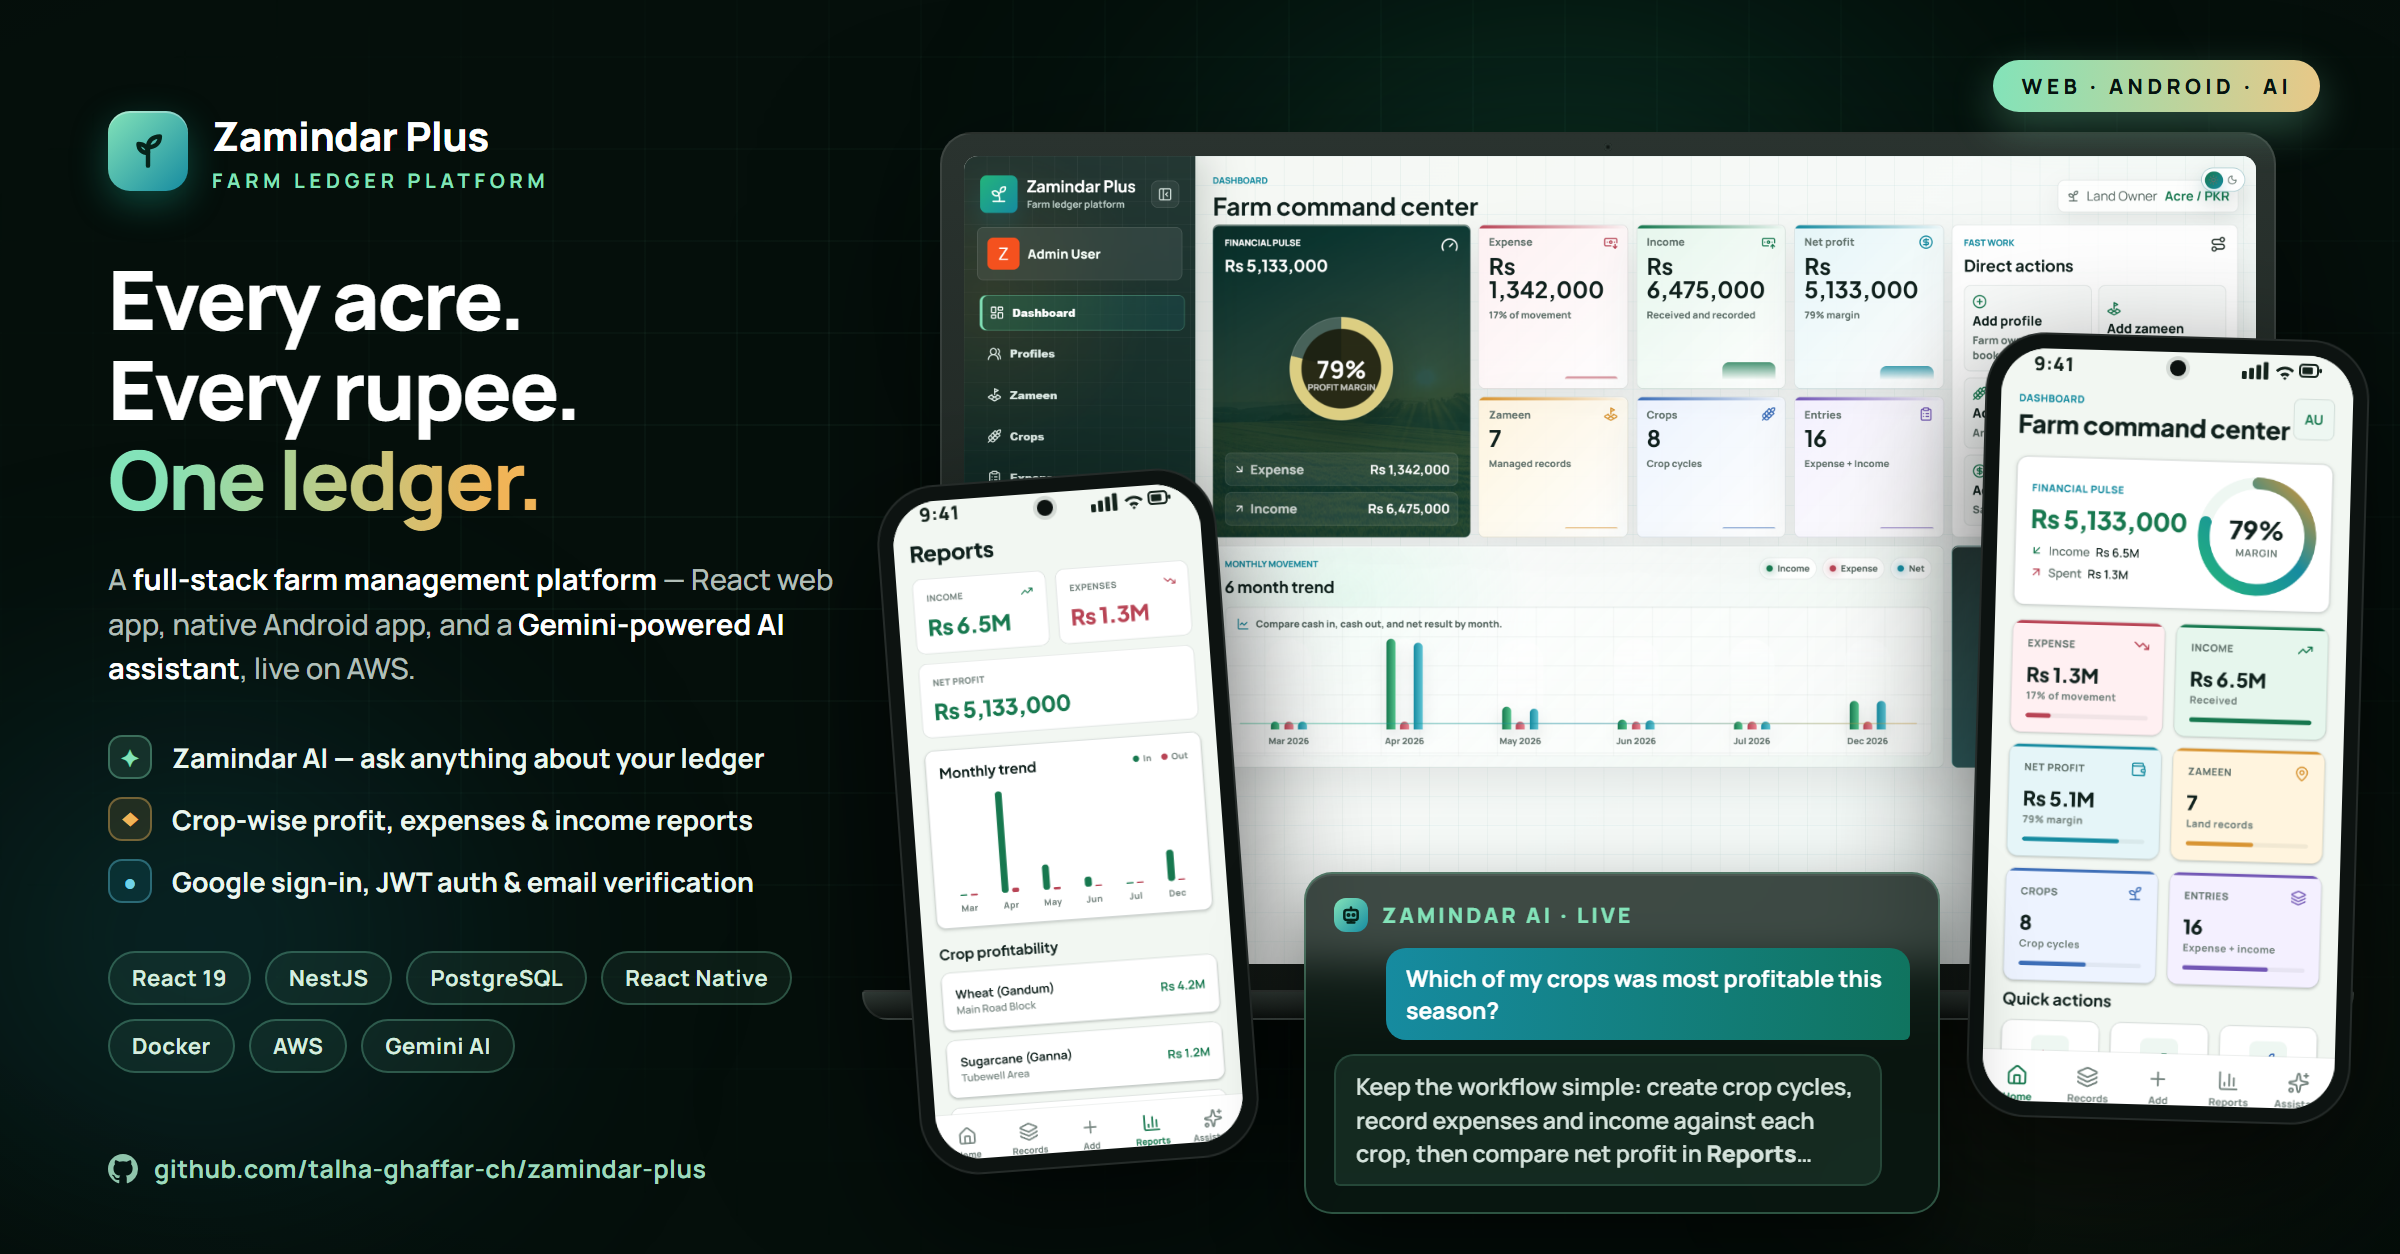
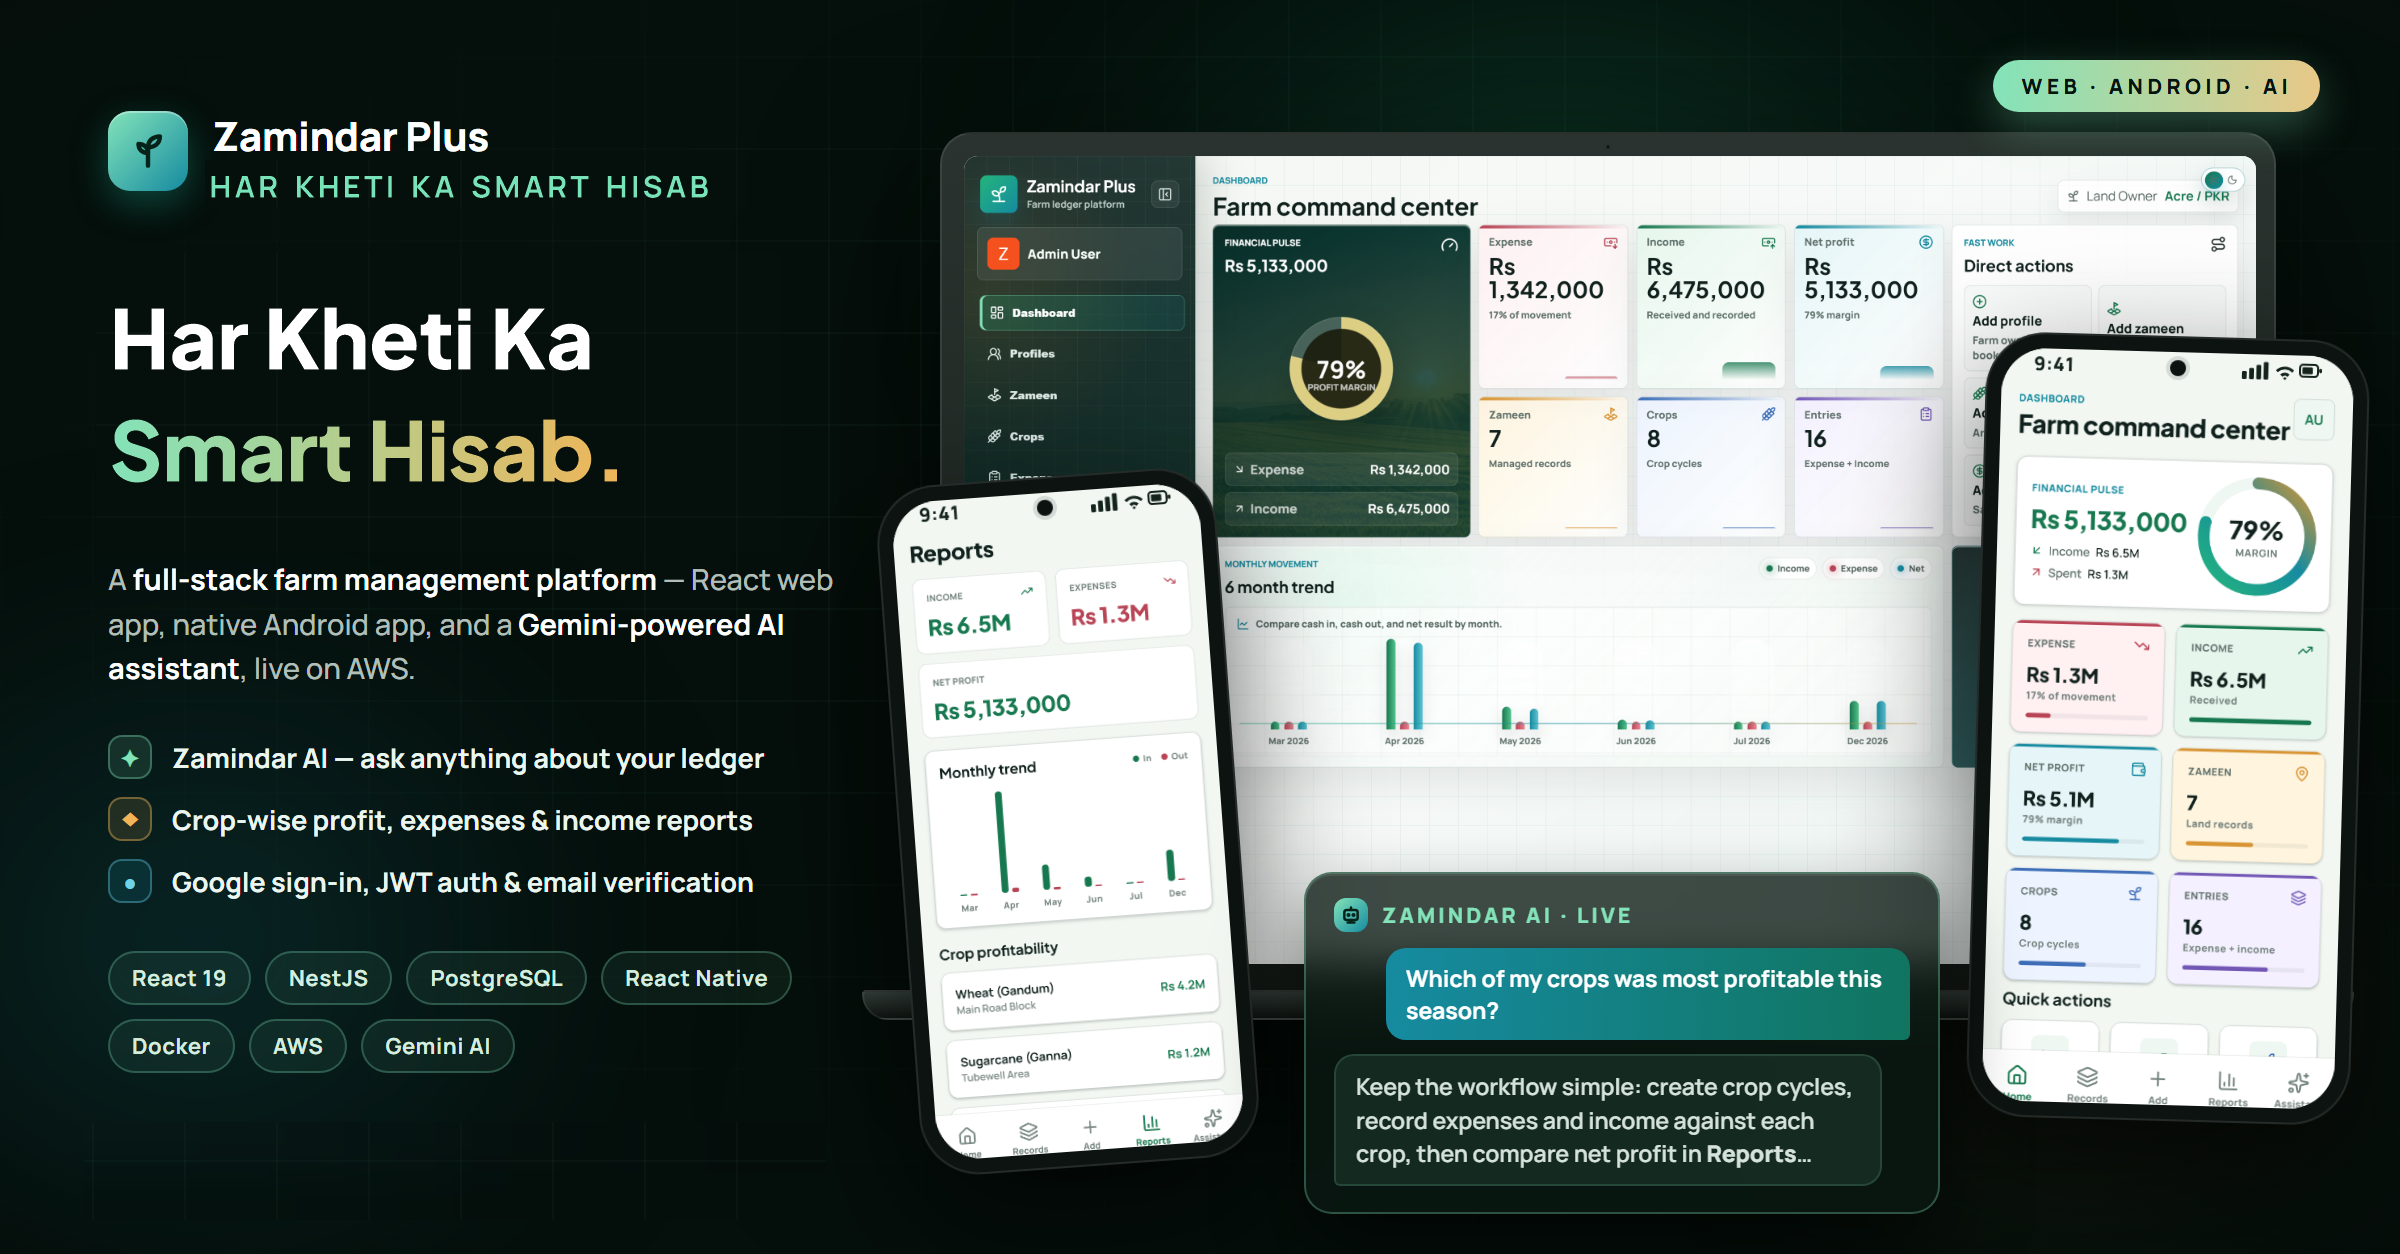
Adopt official tagline: Har Kheti Ka Smart Hisab
Replace every tagline-position string with the official tagline:
- Web sidebar brand line (was: Farm ledger platform)
- Mobile splash subtitle (was: Your farm, in perfect order)
- Browser tab title and new meta description
- README heading area and banner alt text
- Root package description

Redesign the README banner: the headline now reads Har Kheti Ka /
Smart Hisab. in the same typeface and mint-to-amber gradient, the
small-caps line under the logo carries the tagline, and the GitHub
repository link is removed. All other banner artwork is unchanged.

Changed region(s): [[0.0312, 0.2177, 0.25, 0.4354], [0.0625, 0.9019, 0.2812, 0.9641], [0.0938, 0.1244, 0.3125, 0.1555]]

diff --git a/apps/frontend/index.html b/apps/frontend/index.html
@@ -10,7 +10,11 @@
       rel="stylesheet"
     />
     <meta name="viewport" content="width=device-width, initial-scale=1.0" />
-    <title>Zamindar Plus</title>
+    <meta
+      name="description"
+      content="Zamindar Plus — Har Kheti Ka Smart Hisab. Manage zameen, crops, expenses, income, and reports."
+    />
+    <title>Zamindar Plus — Har Kheti Ka Smart Hisab</title>
   </head>
   <body>
     <div id="root"></div>

diff --git a/apps/frontend/src/App.tsx b/apps/frontend/src/App.tsx
@@ -299,7 +299,7 @@ function App() {
           </div>
           <div className="brand-copy">
             <strong>Zamindar Plus</strong>
-            <span>Farm ledger platform</span>
+            <span>Har Kheti Ka Smart Hisab</span>
           </div>
           <button
             aria-label={isSidebarCollapsed ? 'Open sidebar' : 'Close sidebar'}

diff --git a/apps/mobile/src/screens/SplashScreen.tsx b/apps/mobile/src/screens/SplashScreen.tsx
@@ -47,7 +47,7 @@ export function SplashScreen() {
         Zamindar Plus
       </AppText>
       <AppText variant="small" color={theme.colors.textSecondary}>
-        Your farm, in perfect order
+        Har Kheti Ka Smart Hisab
       </AppText>
       <View style={styles.dots}>
         <Dot index={0} />

diff --git a/README.md b/README.md
@@ -1,6 +1,8 @@
 # Zamindar Plus
 
-![Zamindar Plus — every acre, every rupee, one ledger](docs/banner.png)
+**Har Kheti Ka Smart Hisab**
+
+![Zamindar Plus — Har Kheti Ka Smart Hisab](docs/banner.png)
 
 Zamindar Plus is a farm ledger platform for managing profiles, zameen (land),
 crops, expenses, income, reports, and account settings — with email
